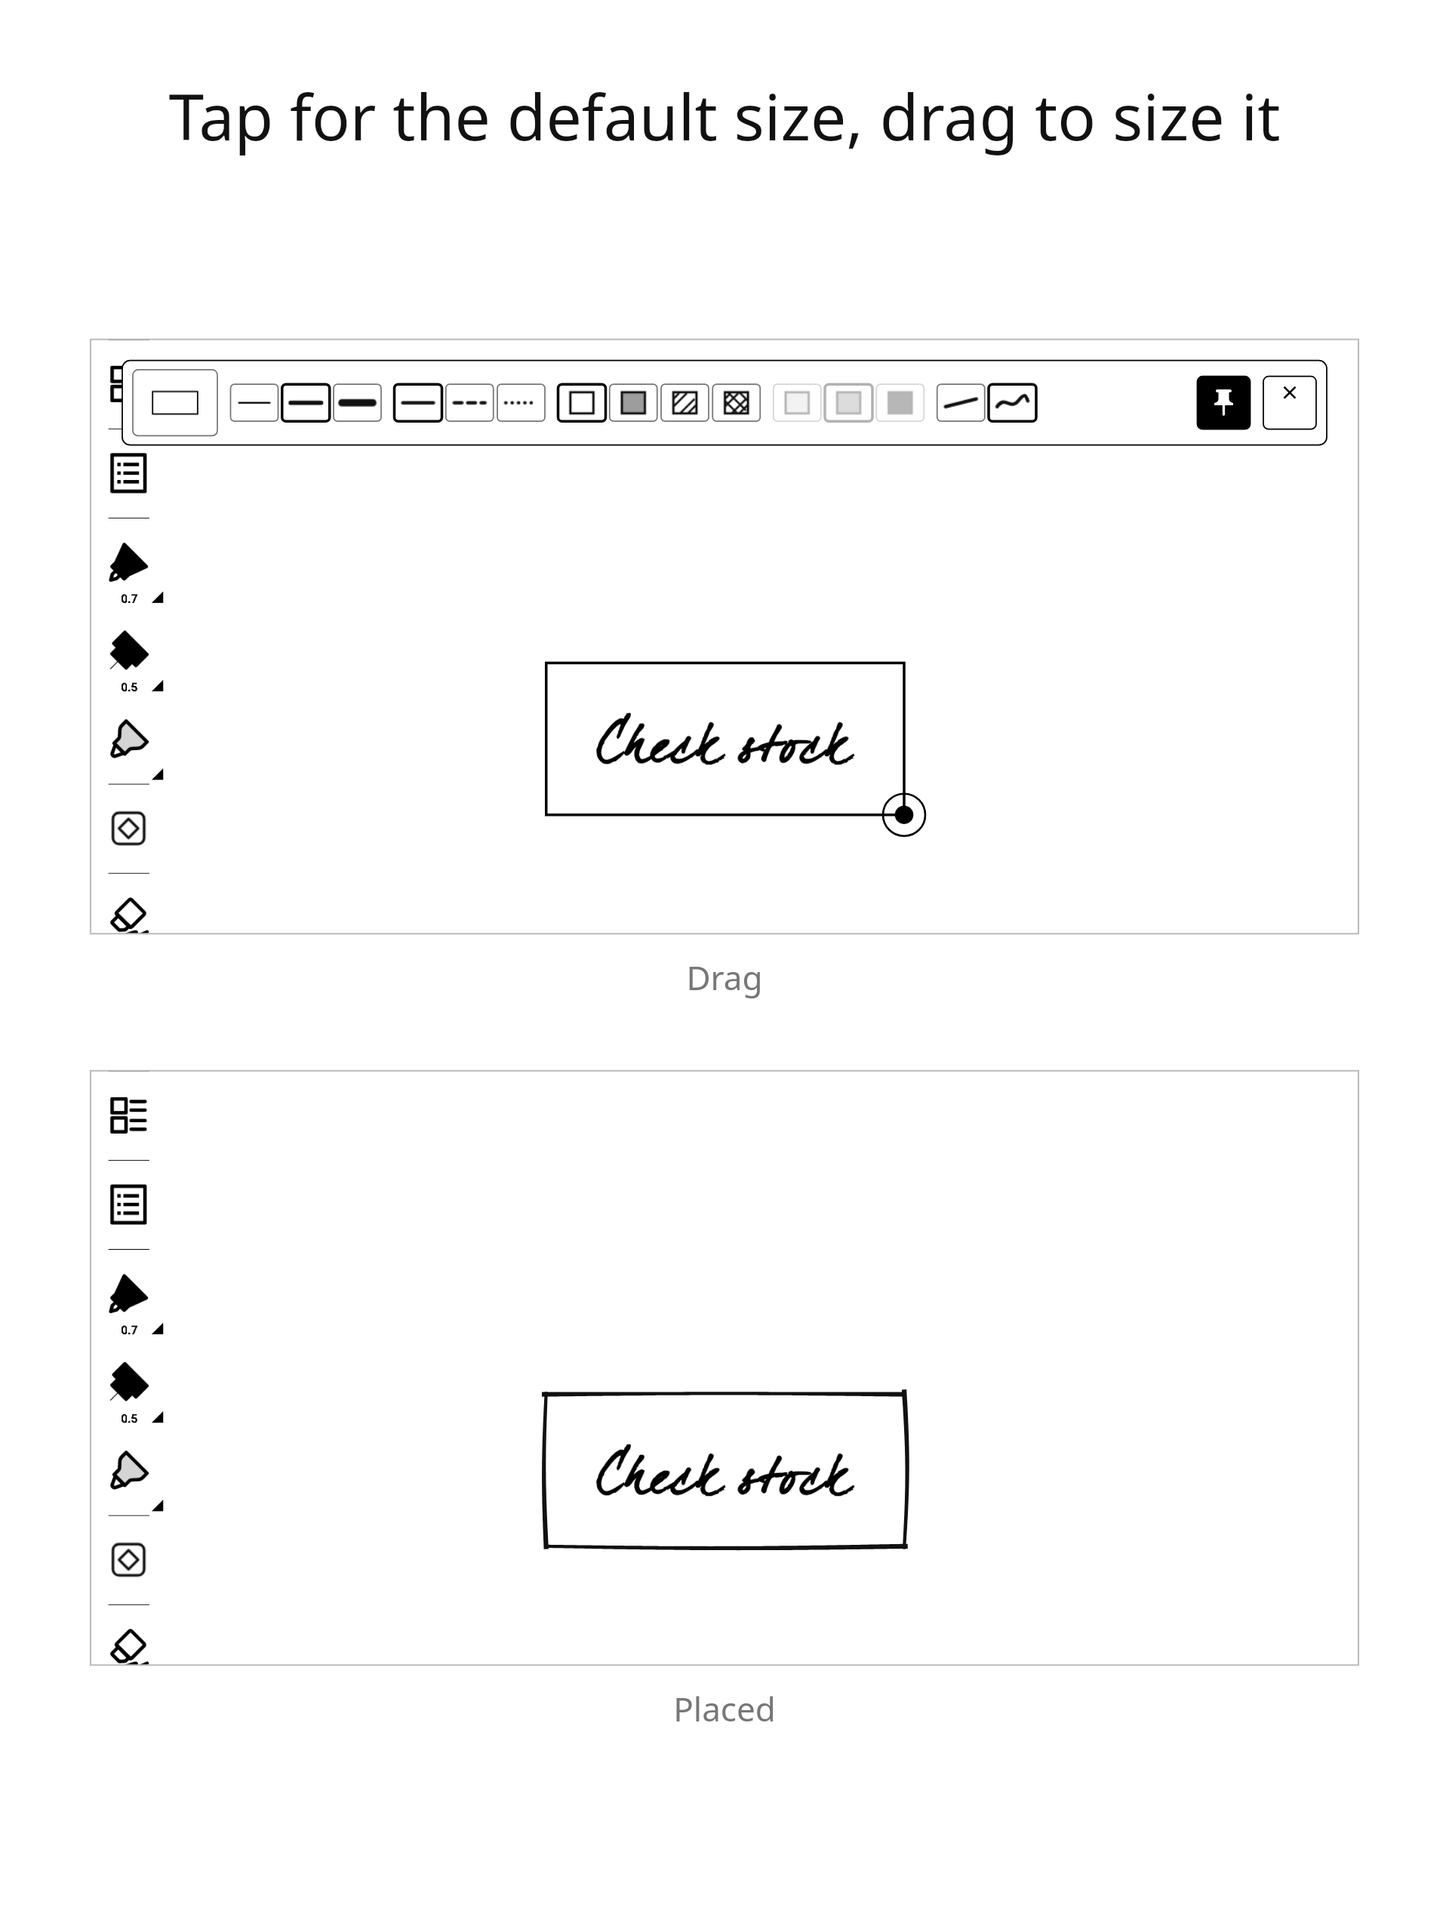
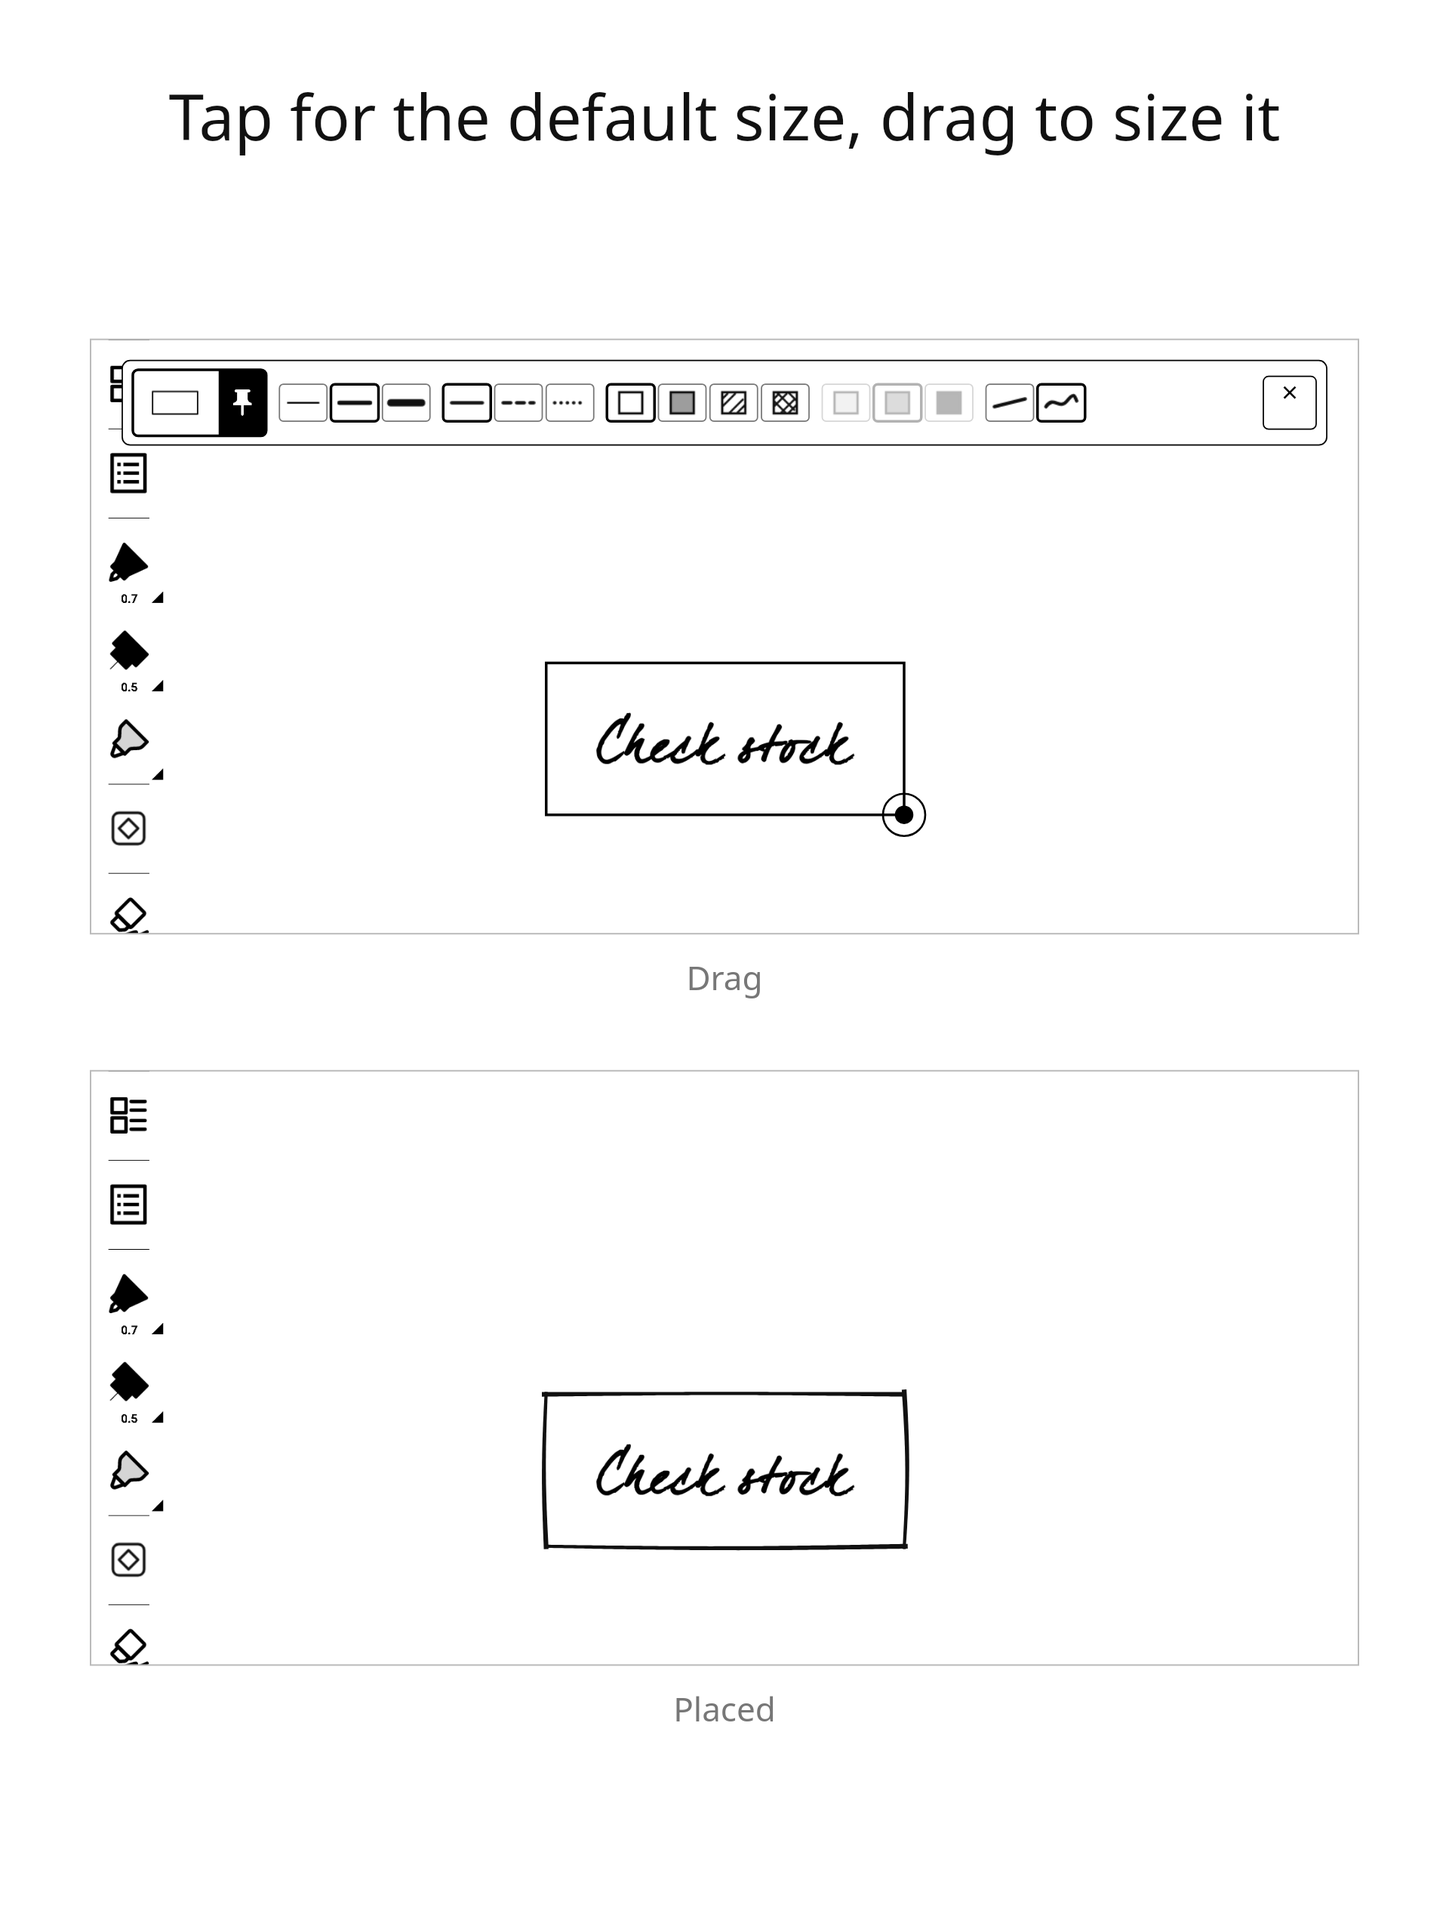
feat(ui): put the pin on the shape tile, framed in ink when pinned (GH-37)
The arm-on-open pin sat beside the close mark, far from the shape it keeps.
The preview is now one tile with a 34 dp pin tab inside the same outline;
pinned, the tab fills and the frame thickens from a grey hairline to 2 dp
of ink, like a chosen chip. The tile has a fixed width so the chips do not
move. The redraw strip shows the tile without the tab. Design page,
README, changelog and the placement listing image follow.

Changed region(s): [[0.375, 0.1875, 0.75, 0.2188], [0.125, 0.1875, 0.3438, 0.25], [0.8125, 0.1875, 0.875, 0.2188]]

diff --git a/docs/design-review.html b/docs/design-review.html
@@ -87,8 +87,15 @@ code{font-family:var(--mono);font-size:.85em;background:var(--paper-2);padding:1
 .lassobar span:last-child{border-right:0}
 .lassobar span.on{background:#111;color:#f2f1ec}
 .strip{position:absolute;left:4%;right:4%;top:3%;height:9%;background:#f2f1ec;border:1px solid #111;border-radius:5px;display:flex;align-items:center;gap:6px;padding:0 6px}
-.strippreview{width:12%;height:72%;border:1px solid #777;border-radius:3px;background:#fff;display:flex;align-items:center;justify-content:center}
+.striptile{display:flex;width:12%;height:72%;border:1px solid #777;border-radius:3px;background:#fff;overflow:hidden}
+.striptile.tabbed{width:19%}
+.striptile.pinned{border:2px solid #111}
+.strippreview{flex:1;min-width:0;display:flex;align-items:center;justify-content:center}
 .strippreview svg{width:85%;height:85%}
+.striptab{width:34%;flex:none;border-left:1px solid #777;display:flex;align-items:center;justify-content:center}
+.striptab svg{width:60%;height:60%;fill:#777}
+.striptile.pinned .striptab{background:#111;border-left-color:#111}
+.striptile.pinned .striptab svg{fill:#f2f1ec}
 .strip .stylebar{border:0;background:transparent;padding:0;flex:1;gap:4px}
 .strip .chip{width:20px;height:16px}
 .strip .chip svg{width:15px;height:10px}
@@ -155,8 +162,8 @@ ul{padding-left:20px}li{margin:6px 0;max-width:70ch}
     <tr><td>Scope v1</td><td>Shape palette, wrap, redraw</td><td>No transform action: the native lasso scales everything proportionally and degrades it, and the engine's own resize degrades too. Size is set at insert and fixed by regeneration.</td></tr>
     <tr><td>Device</td><td>Manta, page read at runtime</td><td>Defaults tuned for 1920 × 2560 px. Page size comes from <code>getPageSize</code> so Nomad works later without changes.</td></tr>
     <tr class="changed"><td>Carriers</td><td>Clean = geometry element, hand-drawn = pen 16 strokes</td><td>Geometry gives one element per shape, undo, and lasso on insert, and needs no file permission. Strokes on the pressure pen are the only way to vary width along a line. Measured on device.</td></tr>
-    <tr class="changed"><td>Insert</td><td>Panel to choose, strip to place</td><td>The panel opens on the left with tabs, style bar and grid. Tapping a shape collapses it into a strip along the top edge showing the shape preview, the style glyphs and a close mark; the rest of the page is live. Tap places at default size, drag sizes. The strip vanishes, the shape stays lassoed. Proven in spike round 6.</td></tr>
-    <tr class="changed"><td>Armed on open</td><td>Opens straight into the strip, a toggle in the strip controls it</td><td>Stencil remembers the last shape and style. By default opening it arms that shape at once, so a run of boxes is tap Stencil, drag, repeat; a pin toggle in the strip (filled when on) turns this off, so the next open shows the panel instead, with the remembered shape pre-selected. Tap the preview in the strip to expand the panel and switch shapes.</td></tr>
+    <tr class="changed"><td>Insert</td><td>Panel to choose, strip to place</td><td>The panel opens on the left with tabs, style bar and grid. Tapping a shape collapses it into a strip along the top edge showing the shape tile, the style glyphs and a close mark; the rest of the page is live. Tap places at default size, drag sizes. The strip vanishes, the shape stays lassoed. Proven in spike round 6.</td></tr>
+    <tr class="changed"><td>Armed on open</td><td>Opens straight into the strip, a toggle in the strip controls it</td><td>Stencil remembers the last shape and style. By default opening it arms that shape at once, so a run of boxes is tap Stencil, drag, repeat; a pin tab on the shape tile turns this off, so the next open shows the panel instead, with the remembered shape pre-selected. The pin sits with the shape it keeps, not with the close mark: when pinned the tab fills and the tile's frame thickens from a grey hairline to 2 dp of ink, the same frame a chosen chip has, at a fixed tile width so nothing beside it moves (GH-37, chosen from six prototypes). Tap the preview in the tile to expand the panel and switch shapes.</td></tr>
     <tr class="changed"><td>Resize</td><td>Never scale, redraw from recipe</td><td>Every Stencil element carries shape id, style and seed in <code>userData</code>. Lasso, pull the native handle, tap Stencil: the strip appears armed with that recipe, restyle if wanted, tap apply, and the selection is rendered fresh into the lasso box. Other ink in the selection is left alone and the shape is redrawn at its own size; part of a shape redraws all of it, found through a page read and lassoed whole before deleting; both only while the selection was not moved or stretched; two Stencil shapes in one selection are refused. Clean shapes go in as geometry page elements so they carry a recipe too, at the cost of native undo.</td></tr>
     <tr><td>Palette layout</td><td>Family tabs</td><td>E-ink scrolls badly, so each family gets one panel of cells. The tab is remembered between opens.</td></tr>
     <tr class="changed"><td>Style bar</td><td>Glyphs, five groups</td><td>Weight 3, line 3, fill 4 (none, solid, hatch, cross), tone 3 (light, dark, black), look 2. Tone is dimmed while fill is none. Applies to the next insert, remembered across sessions.</td></tr>
@@ -197,7 +204,7 @@ ul{padding-left:20px}li{margin:6px 0;max-width:70ch}
       <h3>Strip</h3>
       <div class="device"><div class="screen page">
         <div class="strip">
-          <div class="strippreview" data-strippreview></div>
+          <div class="striptile tabbed pinned"><div class="strippreview" data-strippreview></div><span class="striptab"><svg viewBox="0 0 24 24"><path d="M16 9V4h1c.55 0 1-.45 1-1s-.45-1-1-1H7c-.55 0-1 .45-1 1s.45 1 1 1h1v5c0 1.66-1.34 3-3 3v2h5.97v7l1 1 1-1v-7H19v-2c-1.66 0-3-1.34-3-3z"/></svg></span></div>
           <div class="stylebar strip-style" data-stylebar></div>
           <span class="stripx">×</span>
         </div>
@@ -205,14 +212,14 @@ ul{padding-left:20px}li{margin:6px 0;max-width:70ch}
         <div class="band"></div>
         <div class="pen"></div>
       </div></div>
-      <p>The strip shows what will be placed. Glyphs are live, so you can still change weight, line, fill or look. Tap the page to place at default size, drag to size. Then the strip goes and the shape stays lassoed.</p>
+      <p>The strip shows what will be placed. The shape tile carries the pin: filled, with an ink frame, while the shape stays armed for the next open. Glyphs are live, so you can still change weight, line, fill or look. Tap the page to place at default size, drag to size. Then the strip goes and the shape stays lassoed.</p>
     </div>
     <div class="frame-card">
       <span class="eyebrow">3 · Redraw</span>
       <h3>From the lasso toolbar</h3>
       <div class="device"><div class="screen page">
         <div class="strip">
-          <div class="strippreview" data-redrawpreview></div>
+          <div class="striptile"><div class="strippreview" data-redrawpreview></div></div>
           <div class="stylebar strip-style" data-stylebar></div>
           <span class="stripx on">✓</span>
         </div>

diff --git a/src/ui/Strip.tsx b/src/ui/Strip.tsx
@@ -20,23 +20,26 @@ export type StripProps = {
 export default function Strip({ shape, style, onStyle, onExpand, onClose, action, armOnOpen }: StripProps) {
   return (
     <View style={styles.strip}>
-      <Pressable testID="strip-preview" accessibilityRole="button" accessibilityLabel={`${shape.label}, choose another shape`} onPress={onExpand} style={styles.preview}>
-        <Image testID={`strip-icon-${shape.id}`} source={ICONS[shape.id]} style={styles.previewIcon} resizeMode="contain" />
-      </Pressable>
+      {/* The shape and its pin are one tile, so "pinned" reads as a property of the shape. A fixed width keeps the chips still when the pinned frame thickens. */}
+      <View testID="strip-tile" style={[styles.tile, armOnOpen ? styles.tileWithTab : styles.tileAlone, armOnOpen?.value && styles.tilePinned]}>
+        <Pressable testID="strip-preview" accessibilityRole="button" accessibilityLabel={`${shape.label}, choose another shape`} onPress={onExpand} style={styles.preview}>
+          <Image testID={`strip-icon-${shape.id}`} source={ICONS[shape.id]} style={styles.previewIcon} resizeMode="contain" />
+        </Pressable>
+        {armOnOpen && (
+          <Pressable
+            testID="strip-arm-on-open"
+            accessibilityRole="checkbox"
+            accessibilityLabel="Keep this shape ready next time"
+            accessibilityState={{ checked: armOnOpen.value }}
+            onPress={armOnOpen.onToggle}
+            style={[styles.tab, armOnOpen.value && styles.tabOn]}>
+            <Image source={armOnOpen.value ? PIN.on : PIN.off} style={[styles.markIcon, !armOnOpen.value && styles.tabIconOff]} resizeMode="contain" />
+          </Pressable>
+        )}
+      </View>
       <View style={styles.bar}>
         <StyleBar style={style} onStyle={onStyle} size="strip" />
       </View>
-      {armOnOpen && (
-        <Pressable
-          testID="strip-arm-on-open"
-          accessibilityRole="checkbox"
-          accessibilityLabel="Open straight to the strip next time"
-          accessibilityState={{ checked: armOnOpen.value }}
-          onPress={armOnOpen.onToggle}
-          style={[styles.mark, armOnOpen.value && styles.markOn]}>
-          <Image source={armOnOpen.value ? PIN.on : PIN.off} style={styles.markIcon} resizeMode="contain" />
-        </Pressable>
-      )}
       {action && (
         <Pressable testID="strip-action" accessibilityRole="button" accessibilityLabel={action.label} onPress={action.onPress} style={[styles.mark, styles.markOn]}>
           <Text style={[styles.markText, styles.markTextOn]}>{action.label}</Text>
@@ -67,8 +70,17 @@ const styles = StyleSheet.create({
     borderColor: INK,
     borderRadius: 6,
   },
-  preview: { width: 64, height: 50, borderWidth: 1, borderColor: RULE, borderRadius: 4, alignItems: 'center', justifyContent: 'center' },
+  tile: { height: 50, flexDirection: 'row', borderWidth: 1, borderColor: RULE, borderRadius: 4, overflow: 'hidden' },
+  tileAlone: { width: 64 },
+  // 64 preview + 1 divider + 34 tab + 2 border.
+  tileWithTab: { width: 101 },
+  // Same frame as a chosen chip: 2 px of ink. The border grows inward, so the strip beside it does not move.
+  tilePinned: { borderWidth: 2, borderColor: INK },
+  preview: { flex: 1, alignItems: 'center', justifyContent: 'center' },
   previewIcon: { width: 44, height: 44 },
+  tab: { width: 34, borderLeftWidth: 1, borderLeftColor: RULE, alignItems: 'center', justifyContent: 'center', backgroundColor: PAPER },
+  tabOn: { backgroundColor: INK, borderLeftColor: INK },
+  tabIconOff: { opacity: 0.55 },
   bar: { flex: 1 },
   mark: { minWidth: 40, height: 40, paddingHorizontal: 6, borderWidth: 1, borderColor: INK, borderRadius: 4, alignItems: 'center', justifyContent: 'center' },
   markOn: { backgroundColor: INK },

diff --git a/scripts/listing-scenes.ts b/scripts/listing-scenes.ts
@@ -205,9 +205,19 @@ function strip(style: Style, id: ShapeId, action?: string): string {
   const h = 64 * R;
   let s = box(x, y, w, h, 6 * R, '#000', R);
   const px = x + 8 * R;
-  s += box(px, y + 7 * R, 64 * R, 50 * R, 4 * R, '#777', R) + `<image href="${ICON[id]}" x="${px + 10 * R}" y="${y + 10 * R}" width="${44 * R}" height="${44 * R}"/>`;
-  s += chips(['weight', 'line', 'fill', 'tone', 'look'], style, px + 74 * R, y + (h - 28 * R) / 2, 32 * R, 24 * R, 10 * R).svg;
-  const marks = action ? [action, '×'] : ['pin', '×'];
+  // The shape tile: preview alone on the redraw strip, preview plus a pinned pin tab (2 dp ink frame) on the place strip.
+  const pinned = !action;
+  const tileW = (pinned ? 101 : 64) * R;
+  const ty = y + 7 * R;
+  s += box(px, ty, tileW, 50 * R, 4 * R, pinned ? '#000' : '#777', pinned ? 2 * R : R) + `<image href="${ICON[id]}" x="${px + 10 * R}" y="${y + 10 * R}" width="${44 * R}" height="${44 * R}"/>`;
+  if (pinned) {
+    const tx = px + tileW - 36 * R;
+    s += `<clipPath id="tile"><rect x="${f1(px)}" y="${f1(ty)}" width="${f1(tileW)}" height="${50 * R}" rx="${4 * R}"/></clipPath>`;
+    s += `<rect x="${f1(tx)}" y="${f1(ty)}" width="${36 * R}" height="${50 * R}" fill="#000" clip-path="url(#tile)"/>`;
+    s += `<image href="${PIN_ON}" x="${f1(tx + 18 * R - 12 * R)}" y="${f1(ty + 25 * R - 12 * R)}" width="${24 * R}" height="${24 * R}"/>`;
+  }
+  s += chips(['weight', 'line', 'fill', 'tone', 'look'], style, px + tileW + 10 * R, y + (h - 28 * R) / 2, 32 * R, 24 * R, 10 * R).svg;
+  const marks = action ? [action, '×'] : ['×'];
   const mark = 40 * R;
   marks.forEach((m, i) => {
     const mx = x + w - 8 * R - mark - (marks.length - 1 - i) * (mark + 10 * R);
@@ -215,9 +225,7 @@ function strip(style: Style, id: ShapeId, action?: string): string {
     const dark = m !== '×';
     s += box(mx, my, mark, mark, 4 * R, '#000', R, dark ? '#000' : '#fff');
     const c = { x: mx + mark / 2, y: my + mark / 2 };
-    if (m === 'pin') {
-      s += `<image href="${PIN_ON}" x="${c.x - 12 * R}" y="${c.y - 12 * R}" width="${24 * R}" height="${24 * R}"/>`;
-    } else if (m === 'check') {
+    if (m === 'check') {
       s += `<path d="M${c.x - 9 * R} ${c.y} l${6 * R} ${7 * R} l${12 * R} ${-14 * R}" fill="none" stroke="#fff" stroke-width="${3 * R}" stroke-linecap="round" stroke-linejoin="round"/>`;
     } else {
       s += label(c.x, c.y, m, 22 * R);

diff --git a/__tests__/panel.test.tsx b/__tests__/panel.test.tsx
@@ -1,4 +1,5 @@
 import React from 'react';
+import { StyleSheet } from 'react-native';
 import { act, create, type ReactTestRenderer } from 'react-test-renderer';
 import { DEFAULT_STYLE } from '../src/render/style';
 import { SHAPES } from '../src/shapes';
@@ -56,6 +57,16 @@ describe('Strip', () => {
   it('omits the arm-on-open control when no prop is passed (RedrawFlow)', () => {
     const r = render(<Strip shape={SHAPES.decision} style={DEFAULT_STYLE} onStyle={noop} onExpand={noop} onClose={noop} />);
     expect(r.root.findAllByProps({ testID: 'strip-arm-on-open' })).toHaveLength(0);
+    expect(StyleSheet.flatten(r.root.findByProps({ testID: 'strip-tile' }).props.style).width).toBe(64);
+  });
+
+  it('frames the shape tile in ink when pinned, at a fixed width so the chips do not move', () => {
+    const tile = (value: boolean) => {
+      const r = render(<Strip shape={SHAPES.decision} style={DEFAULT_STYLE} onStyle={noop} onExpand={noop} onClose={noop} armOnOpen={{ value, onToggle: noop }} />);
+      return StyleSheet.flatten(r.root.findByProps({ testID: 'strip-tile' }).props.style);
+    };
+    expect(tile(false)).toMatchObject({ width: 101, borderWidth: 1 });
+    expect(tile(true)).toMatchObject({ width: 101, borderWidth: 2 });
   });
 
   it('reports the arm-on-open toggle and reflects its checked state', () => {

diff --git a/README.md b/README.md
@@ -21,11 +21,11 @@ Tap **Stencil** in the sidebar. A panel opens on the left: pick a family tab (Ba
 
 ### Strip
 
-The armed shape, its style glyphs and a close mark sit in a strip along the top edge; the rest of the page stays free below it. Tap the strip's preview to reopen the panel and pick another shape.
+The armed shape with its pin, the style glyphs and a close mark sit in a strip along the top edge; the rest of the page stays free below it. Tap the shape in the strip to reopen the panel and pick another shape.
 
 ### Place
 
-Tap the page to place the shape at its default size under the pen, or drag to render it into the swept box. The plugin closes with the new shape lassoed. Shape, style and tab are remembered, so the next open goes straight to the strip. Tap the pin next to the strip's close button to unpin it, and the next open shows the shape picker instead.
+Tap the page to place the shape at its default size under the pen, or drag to render it into the swept box. The plugin closes with the new shape lassoed. Shape, style and tab are remembered, so the next open goes straight to the strip. Tap the pin on the strip's shape tile to unpin it, and the next open shows the shape picker instead.
 
 ### Wrap
 

diff --git a/CHANGELOG.md b/CHANGELOG.md
@@ -1,5 +1,9 @@
 # Changelog
 
+## Unreleased
+
+- Strip: the pin moves from the close mark to the shape it keeps. The preview is one tile with a pin tab on its right; pinned, the tab fills and the tile's frame thickens to ink, at a fixed width so the chips stay put (GH-37).
+
 ## 1.1.0 — 2026-11-07
 
 - Fill tone: fill is none, solid, hatch or cross, and a new tone group (light, dark, black) sets the grey of a solid fill and the spacing of hatch lines. Spacing is a constant per tone instead of a share of the box height, so one style reads the same on every size. Saved styles and recipes from 1.0.0 are upgraded on read; an old hatch redraws at black, the spacing closest to what it had (GH-20).
